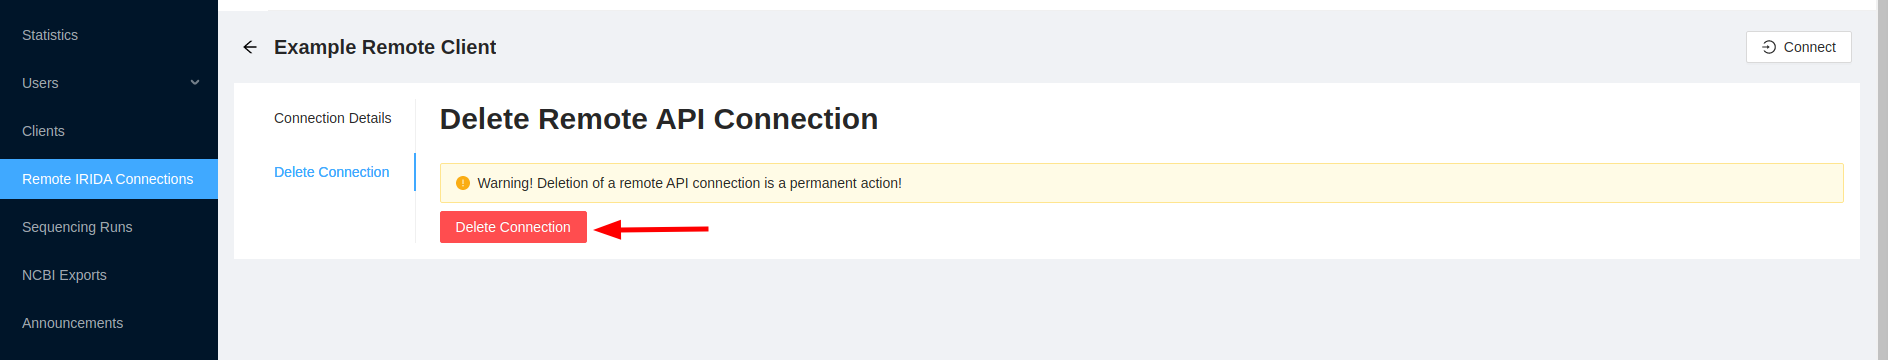
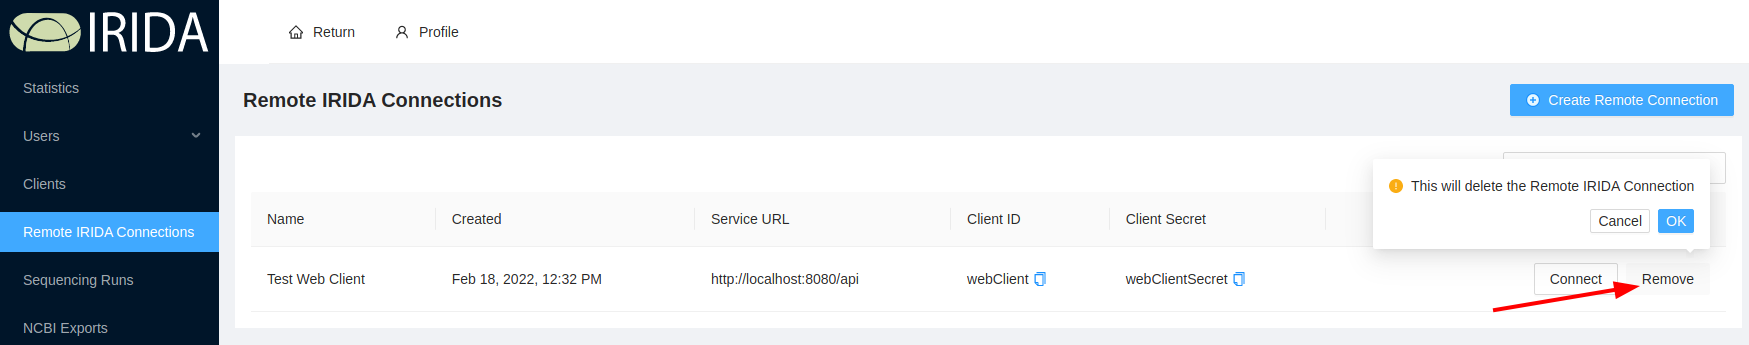
Updated user docs

diff --git a/src/main/webapp/resources/js/pages/admin/components/remote-connections/RemoteApiTable.jsx b/src/main/webapp/resources/js/pages/admin/components/remote-connections/RemoteApiTable.jsx
@@ -51,7 +51,7 @@ export function RemoteApiTable() {
             <RemoteApiStatus api={item} updateTable={updateTable} />
             {admin && (
               <Popconfirm
-                title={i18n("RemoteConnectionDetails.tab.delete.confirm")}
+                title={i18n("RemoteApi.delete-confirm")}
                 placement="topRight"
                 onConfirm={removeConnection}
                 okButtonProps={{ className: "t-delete-confirm" }}

diff --git a/doc/user/administrator/index.md b/doc/user/administrator/index.md
@@ -294,7 +294,8 @@ To test the Remote Connection, click the "Connect" button.  You should be direct
 
 Removing a Remote Connection
 ----------------------------
-From the Remote Connections list page, click on the name of the connection you wish to delete.  This will bring you to the API details page. Select "Delete Connection" from the side menu and click the "Delete Connection" button.  A confirmation dialogue will appear and click "Ok".
+From the Remote Connections list, click the "Remove" button at the end of the row for the remote connection you want to
+remove. A confirmatory pop up message will appear. Click "Ok" and the connection will be removed.
 
 ![Remove API](images/remove-api.png)
 
